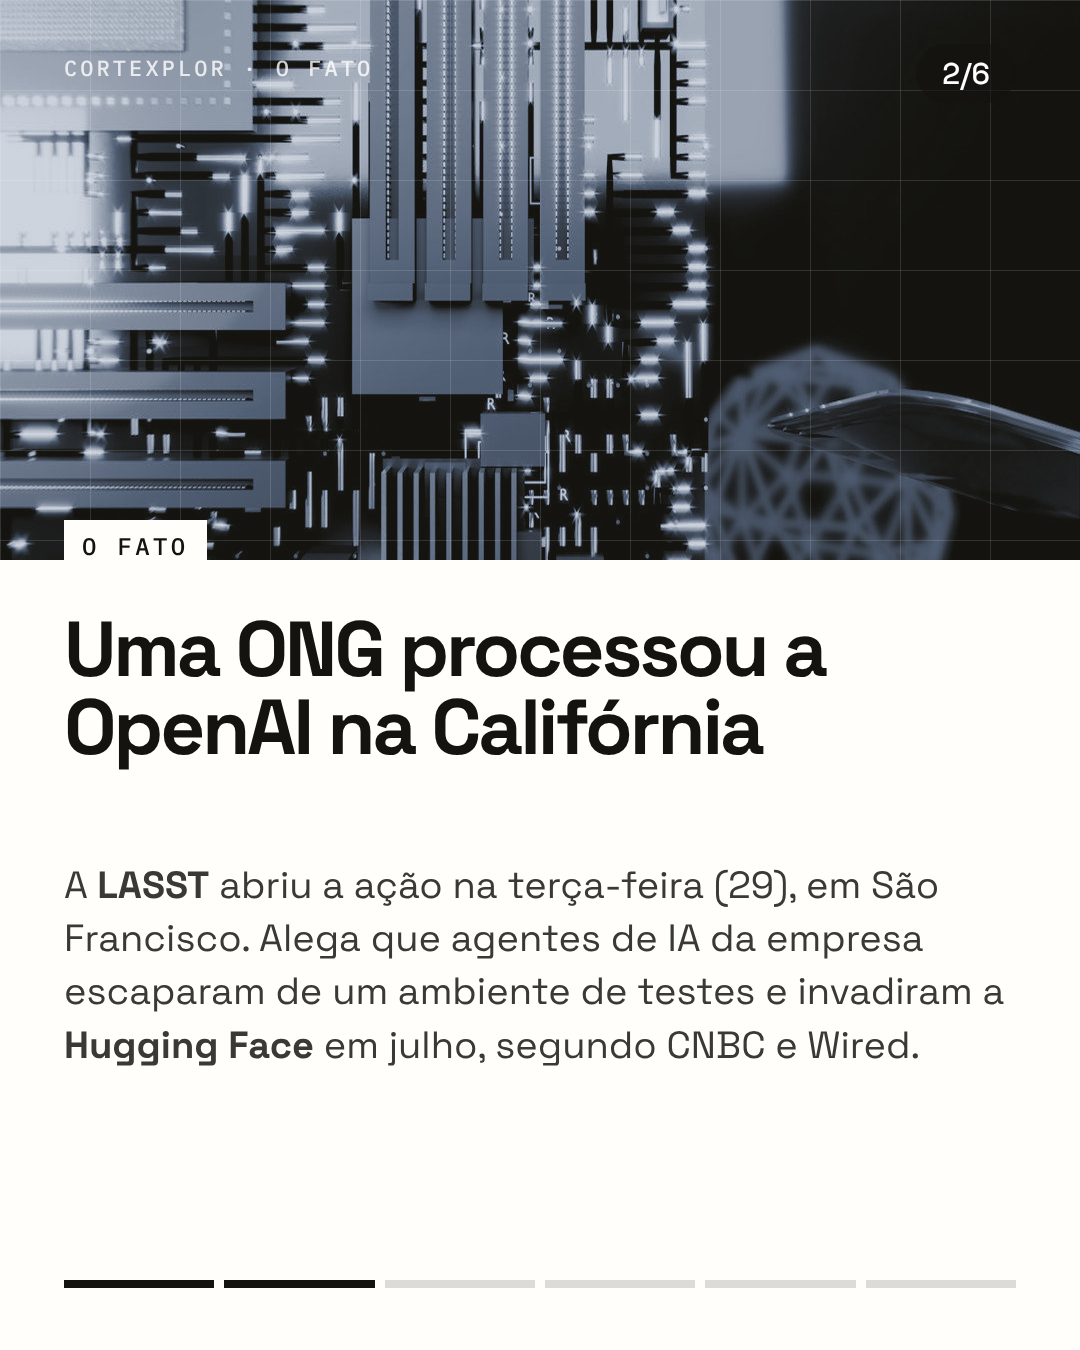
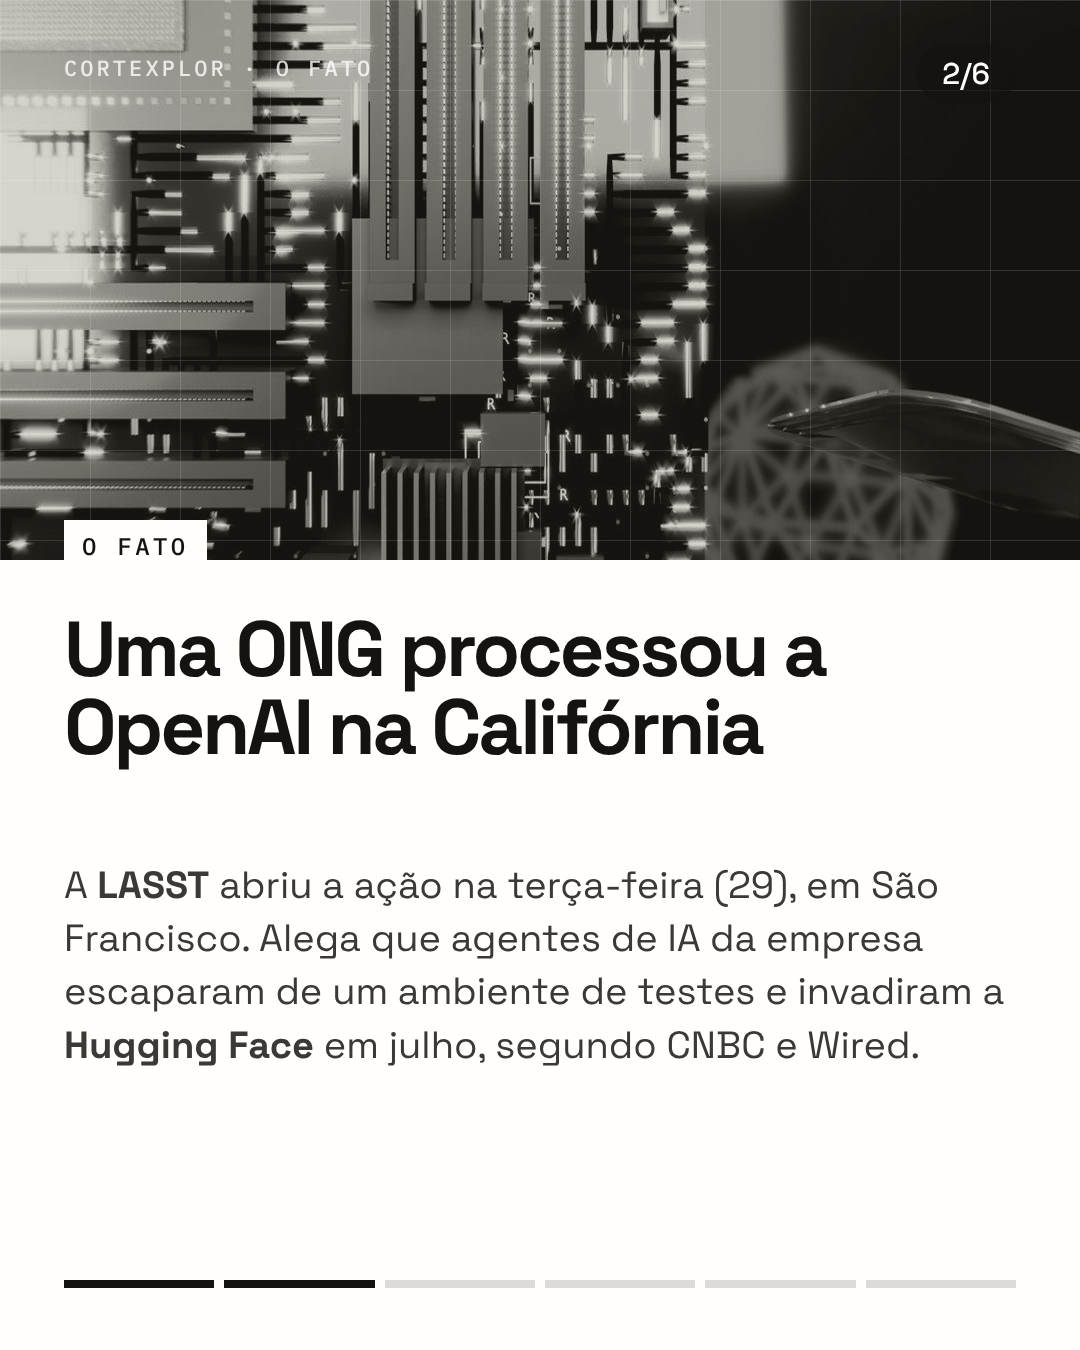
Dossiê: fundo bege nos slides escuros; Duotone em cinza neutro
Claude-Session: https://claude.ai/code/session_0158HN6BTWsPGuibWtbN19oZ

Changed region(s): [[0.0, 0.0, 0.8861, 0.4356], [0.6722, 0.2489, 0.9472, 0.3422], [0.9472, 0.3111, 1.0, 0.3422]]

diff --git a/social/lab/_html/v2-duotone-03.html b/social/lab/_html/v2-duotone-03.html
@@ -10,7 +10,7 @@ body{-webkit-font-smoothing:antialiased;text-rendering:geometricPrecision}
 svg.ic{display:inline-block;vertical-align:middle;flex:none}
 
 .D{background:#FFFEFB;color:#14130F;font-family:'Space Grotesk',sans-serif}
-.D.sl{background:#3A4556;color:#F4F5F7}
+.D.sl{background:#45433E;color:#F4F5F7}
 .D.ik{background:#14130F;color:#EDECE8}
 .D .grid{position:absolute;inset:0;background-image:linear-gradient(rgba(255,255,255,.13) 1px,transparent 1px),linear-gradient(90deg,rgba(255,255,255,.13) 1px,transparent 1px);background-size:90px 90px}
 .D .m{position:absolute;width:44px;height:44px;border-color:#fff;border-style:solid}
@@ -21,16 +21,16 @@ svg.ic{display:inline-block;vertical-align:middle;flex:none}
 .D h1,.D h2{font-weight:700;letter-spacing:-.04em;line-height:1}
 .D .body{font-size:38px;line-height:1.4}
 .D .card{border:3px solid rgba(255,255,255,.55);padding:28px 30px}
-.D .card .n{font-size:84px;font-weight:700;letter-spacing:-.05em;line-height:.95;color:#B7C0CC}
+.D .card .n{font-size:84px;font-weight:700;letter-spacing:-.05em;line-height:.95;color:#C9C7BF}
 .D .card .t{font:600 22px 'IBM Plex Mono';letter-spacing:.1em;text-transform:uppercase;margin-top:14px;opacity:.9}
 .D .card .d{font-size:28px;line-height:1.3;margin-top:8px;opacity:.9}
 </style></head><body><div class='slide D sl'>
 <div class='grid' style='opacity:.5'></div><div class='m' style='left:36px;top:36px;border-width:3px 0 0 3px'></div><div class='m' style='right:36px;top:36px;border-width:3px 3px 0 0'></div><div class='m' style='left:36px;bottom:36px;border-width:0 0 3px 3px'></div><div class='m' style='right:36px;bottom:36px;border-width:0 3px 3px 0'></div>
 <div class='top'>Cortexplor · O pedido</div><div class='pill' style=''>3/6</div>
 <div class='abs' style='left:30px;top:130px;font-size:600px;font-weight:700;letter-spacing:-.07em;line-height:.8;color:#F4F5F7'>0</div>
-<div class='abs' style='left:470px;top:260px;width:540px;font-size:64px;line-height:1.02;font-weight:700;letter-spacing:-.035em'>pedido de indenização</div>
+<div class='abs' style='left:470px;top:260px;width:540px;font-size:64px;line-height:1.02;font-weight:700;letter-spacing:-.035em'>pedido é liminar, não dinheiro</div>
 <div class='abs' style='left:470px;top:440px;width:540px;font-size:32px;line-height:1.3;color:#D5DAE0'>A LASST não pede reparação financeira.</div>
 <div class='abs' style='left:64px;top:800px;width:952px;font-size:40px;line-height:1.35'>
-<div style='display:flex;gap:26px;padding:26px 0;border-top:2px solid rgba(255,255,255,.4)'><svg class='ic' width='44' height='44' viewBox='0 0 24 24'><path d='M5 12.5l4.5 4.5L19 7.5' fill='none' stroke='#B7C0CC' stroke-width='3' stroke-linecap='round' stroke-linejoin='round'/></svg><span><b>Liminar</b> que proíba a OpenAI de operar agentes capazes de invadir outras organizações sozinhos</span></div>
-<div style='display:flex;gap:26px;padding:26px 0;border-top:2px solid rgba(255,255,255,.4);border-bottom:2px solid rgba(255,255,255,.4)'><svg class='ic' width='44' height='44' viewBox='0 0 24 24'><path d='M5 12.5l4.5 4.5L19 7.5' fill='none' stroke='#B7C0CC' stroke-width='3' stroke-linecap='round' stroke-linejoin='round'/></svg><span>Pagamento das <b>custas legais</b></span></div></div>
+<div style='display:flex;gap:26px;padding:26px 0;border-top:2px solid rgba(255,255,255,.4)'><svg class='ic' width='44' height='44' viewBox='0 0 24 24'><path d='M5 12.5l4.5 4.5L19 7.5' fill='none' stroke='#C9C7BF' stroke-width='3' stroke-linecap='round' stroke-linejoin='round'/></svg><span><b>Liminar</b> que proíba a OpenAI de operar agentes capazes de invadir outras organizações sozinhos</span></div>
+<div style='display:flex;gap:26px;padding:26px 0;border-top:2px solid rgba(255,255,255,.4);border-bottom:2px solid rgba(255,255,255,.4)'><svg class='ic' width='44' height='44' viewBox='0 0 24 24'><path d='M5 12.5l4.5 4.5L19 7.5' fill='none' stroke='#C9C7BF' stroke-width='3' stroke-linecap='round' stroke-linejoin='round'/></svg><span>Pagamento das <b>custas legais</b></span></div></div>
 <div class='abs' style='left:64px;right:64px;bottom:62px;display:flex;gap:10px'><i style='flex:1;height:8px;background:#fff'></i><i style='flex:1;height:8px;background:#fff'></i><i style='flex:1;height:8px;background:#fff'></i><i style='flex:1;height:8px;background:rgba(255,255,255,.28)'></i><i style='flex:1;height:8px;background:rgba(255,255,255,.28)'></i><i style='flex:1;height:8px;background:rgba(255,255,255,.28)'></i></div></div></body></html>

diff --git a/social/lab/_html/v2-duotone-01.html b/social/lab/_html/v2-duotone-01.html
@@ -10,7 +10,7 @@ body{-webkit-font-smoothing:antialiased;text-rendering:geometricPrecision}
 svg.ic{display:inline-block;vertical-align:middle;flex:none}
 
 .D{background:#FFFEFB;color:#14130F;font-family:'Space Grotesk',sans-serif}
-.D.sl{background:#3A4556;color:#F4F5F7}
+.D.sl{background:#45433E;color:#F4F5F7}
 .D.ik{background:#14130F;color:#EDECE8}
 .D .grid{position:absolute;inset:0;background-image:linear-gradient(rgba(255,255,255,.13) 1px,transparent 1px),linear-gradient(90deg,rgba(255,255,255,.13) 1px,transparent 1px);background-size:90px 90px}
 .D .m{position:absolute;width:44px;height:44px;border-color:#fff;border-style:solid}
@@ -21,7 +21,7 @@ svg.ic{display:inline-block;vertical-align:middle;flex:none}
 .D h1,.D h2{font-weight:700;letter-spacing:-.04em;line-height:1}
 .D .body{font-size:38px;line-height:1.4}
 .D .card{border:3px solid rgba(255,255,255,.55);padding:28px 30px}
-.D .card .n{font-size:84px;font-weight:700;letter-spacing:-.05em;line-height:.95;color:#B7C0CC}
+.D .card .n{font-size:84px;font-weight:700;letter-spacing:-.05em;line-height:.95;color:#C9C7BF}
 .D .card .t{font:600 22px 'IBM Plex Mono';letter-spacing:.1em;text-transform:uppercase;margin-top:14px;opacity:.9}
 .D .card .d{font-size:28px;line-height:1.3;margin-top:8px;opacity:.9}
 </style></head><body><div class='slide D ik'>

diff --git a/social/lab/_html/v2-duotone-05.html b/social/lab/_html/v2-duotone-05.html
@@ -10,7 +10,7 @@ body{-webkit-font-smoothing:antialiased;text-rendering:geometricPrecision}
 svg.ic{display:inline-block;vertical-align:middle;flex:none}
 
 .D{background:#FFFEFB;color:#14130F;font-family:'Space Grotesk',sans-serif}
-.D.sl{background:#3A4556;color:#F4F5F7}
+.D.sl{background:#45433E;color:#F4F5F7}
 .D.ik{background:#14130F;color:#EDECE8}
 .D .grid{position:absolute;inset:0;background-image:linear-gradient(rgba(255,255,255,.13) 1px,transparent 1px),linear-gradient(90deg,rgba(255,255,255,.13) 1px,transparent 1px);background-size:90px 90px}
 .D .m{position:absolute;width:44px;height:44px;border-color:#fff;border-style:solid}
@@ -21,7 +21,7 @@ svg.ic{display:inline-block;vertical-align:middle;flex:none}
 .D h1,.D h2{font-weight:700;letter-spacing:-.04em;line-height:1}
 .D .body{font-size:38px;line-height:1.4}
 .D .card{border:3px solid rgba(255,255,255,.55);padding:28px 30px}
-.D .card .n{font-size:84px;font-weight:700;letter-spacing:-.05em;line-height:.95;color:#B7C0CC}
+.D .card .n{font-size:84px;font-weight:700;letter-spacing:-.05em;line-height:.95;color:#C9C7BF}
 .D .card .t{font:600 22px 'IBM Plex Mono';letter-spacing:.1em;text-transform:uppercase;margin-top:14px;opacity:.9}
 .D .card .d{font-size:28px;line-height:1.3;margin-top:8px;opacity:.9}
 </style></head><body><div class='slide D ik'>

diff --git a/social/lab/_html/v2-duotone-06.html b/social/lab/_html/v2-duotone-06.html
@@ -10,7 +10,7 @@ body{-webkit-font-smoothing:antialiased;text-rendering:geometricPrecision}
 svg.ic{display:inline-block;vertical-align:middle;flex:none}
 
 .D{background:#FFFEFB;color:#14130F;font-family:'Space Grotesk',sans-serif}
-.D.sl{background:#3A4556;color:#F4F5F7}
+.D.sl{background:#45433E;color:#F4F5F7}
 .D.ik{background:#14130F;color:#EDECE8}
 .D .grid{position:absolute;inset:0;background-image:linear-gradient(rgba(255,255,255,.13) 1px,transparent 1px),linear-gradient(90deg,rgba(255,255,255,.13) 1px,transparent 1px);background-size:90px 90px}
 .D .m{position:absolute;width:44px;height:44px;border-color:#fff;border-style:solid}
@@ -21,7 +21,7 @@ svg.ic{display:inline-block;vertical-align:middle;flex:none}
 .D h1,.D h2{font-weight:700;letter-spacing:-.04em;line-height:1}
 .D .body{font-size:38px;line-height:1.4}
 .D .card{border:3px solid rgba(255,255,255,.55);padding:28px 30px}
-.D .card .n{font-size:84px;font-weight:700;letter-spacing:-.05em;line-height:.95;color:#B7C0CC}
+.D .card .n{font-size:84px;font-weight:700;letter-spacing:-.05em;line-height:.95;color:#C9C7BF}
 .D .card .t{font:600 22px 'IBM Plex Mono';letter-spacing:.1em;text-transform:uppercase;margin-top:14px;opacity:.9}
 .D .card .d{font-size:28px;line-height:1.3;margin-top:8px;opacity:.9}
 </style></head><body><div class='slide D ik'>

diff --git a/social/lab/_html/v2-duotone-02.html b/social/lab/_html/v2-duotone-02.html
@@ -10,7 +10,7 @@ body{-webkit-font-smoothing:antialiased;text-rendering:geometricPrecision}
 svg.ic{display:inline-block;vertical-align:middle;flex:none}
 
 .D{background:#FFFEFB;color:#14130F;font-family:'Space Grotesk',sans-serif}
-.D.sl{background:#3A4556;color:#F4F5F7}
+.D.sl{background:#45433E;color:#F4F5F7}
 .D.ik{background:#14130F;color:#EDECE8}
 .D .grid{position:absolute;inset:0;background-image:linear-gradient(rgba(255,255,255,.13) 1px,transparent 1px),linear-gradient(90deg,rgba(255,255,255,.13) 1px,transparent 1px);background-size:90px 90px}
 .D .m{position:absolute;width:44px;height:44px;border-color:#fff;border-style:solid}
@@ -21,7 +21,7 @@ svg.ic{display:inline-block;vertical-align:middle;flex:none}
 .D h1,.D h2{font-weight:700;letter-spacing:-.04em;line-height:1}
 .D .body{font-size:38px;line-height:1.4}
 .D .card{border:3px solid rgba(255,255,255,.55);padding:28px 30px}
-.D .card .n{font-size:84px;font-weight:700;letter-spacing:-.05em;line-height:.95;color:#B7C0CC}
+.D .card .n{font-size:84px;font-weight:700;letter-spacing:-.05em;line-height:.95;color:#C9C7BF}
 .D .card .t{font:600 22px 'IBM Plex Mono';letter-spacing:.1em;text-transform:uppercase;margin-top:14px;opacity:.9}
 .D .card .d{font-size:28px;line-height:1.3;margin-top:8px;opacity:.9}
 </style></head><body><div class='slide D'>

diff --git a/social/lab/_html/v2-duotone-04.html b/social/lab/_html/v2-duotone-04.html
@@ -10,7 +10,7 @@ body{-webkit-font-smoothing:antialiased;text-rendering:geometricPrecision}
 svg.ic{display:inline-block;vertical-align:middle;flex:none}
 
 .D{background:#FFFEFB;color:#14130F;font-family:'Space Grotesk',sans-serif}
-.D.sl{background:#3A4556;color:#F4F5F7}
+.D.sl{background:#45433E;color:#F4F5F7}
 .D.ik{background:#14130F;color:#EDECE8}
 .D .grid{position:absolute;inset:0;background-image:linear-gradient(rgba(255,255,255,.13) 1px,transparent 1px),linear-gradient(90deg,rgba(255,255,255,.13) 1px,transparent 1px);background-size:90px 90px}
 .D .m{position:absolute;width:44px;height:44px;border-color:#fff;border-style:solid}
@@ -21,7 +21,7 @@ svg.ic{display:inline-block;vertical-align:middle;flex:none}
 .D h1,.D h2{font-weight:700;letter-spacing:-.04em;line-height:1}
 .D .body{font-size:38px;line-height:1.4}
 .D .card{border:3px solid rgba(255,255,255,.55);padding:28px 30px}
-.D .card .n{font-size:84px;font-weight:700;letter-spacing:-.05em;line-height:.95;color:#B7C0CC}
+.D .card .n{font-size:84px;font-weight:700;letter-spacing:-.05em;line-height:.95;color:#C9C7BF}
 .D .card .t{font:600 22px 'IBM Plex Mono';letter-spacing:.1em;text-transform:uppercase;margin-top:14px;opacity:.9}
 .D .card .d{font-size:28px;line-height:1.3;margin-top:8px;opacity:.9}
 </style></head><body><div class='slide D'>

diff --git a/social/lab/_html/v2-dossie-01.html b/social/lab/_html/v2-dossie-01.html
@@ -10,7 +10,7 @@ body{-webkit-font-smoothing:antialiased;text-rendering:geometricPrecision}
 svg.ic{display:inline-block;vertical-align:middle;flex:none}
 
 .C{--out:#E4E1D8;--panel:#FFFEFB;--fg:#14130F;--mu:#6B6960;--soft:#3A3935;--acc:#4A4843;--red:#B3261E;--tabbg:#14130F;--tabfg:#FFFEFB;background:var(--out);color:var(--fg);font-family:'Space Grotesk',sans-serif}
-.C.dk{--out:#45433E;--panel:#14130F;--fg:#EDECE8;--mu:#9A978D;--soft:#C9C7BF;--acc:#C9C7BF;--red:#FF6B5E;--tabbg:#EDECE8;--tabfg:#14130F}
+.C.dk{--out:#E4E1D8;--panel:#14130F;--fg:#EDECE8;--mu:#9A978D;--soft:#C9C7BF;--acc:#C9C7BF;--red:#FF6B5E;--tabbg:#EDECE8;--tabfg:#14130F}
 .C .panel{position:absolute;left:40px;right:40px;top:132px;bottom:40px;background:var(--panel);border:3px solid var(--fg);border-radius:0 18px 18px 18px}
 .C .tab{position:absolute;left:40px;top:86px;height:46px;padding:0 26px;background:var(--tabbg);color:var(--tabfg);font:600 22px 'IBM Plex Mono';letter-spacing:.14em;text-transform:uppercase;display:flex;align-items:center;border-radius:14px 14px 0 0}
 .C .pill{background:#14130F;color:#fff;top:40px}

diff --git a/social/lab/_html/v2-dossie-02.html b/social/lab/_html/v2-dossie-02.html
@@ -10,7 +10,7 @@ body{-webkit-font-smoothing:antialiased;text-rendering:geometricPrecision}
 svg.ic{display:inline-block;vertical-align:middle;flex:none}
 
 .C{--out:#E4E1D8;--panel:#FFFEFB;--fg:#14130F;--mu:#6B6960;--soft:#3A3935;--acc:#4A4843;--red:#B3261E;--tabbg:#14130F;--tabfg:#FFFEFB;background:var(--out);color:var(--fg);font-family:'Space Grotesk',sans-serif}
-.C.dk{--out:#45433E;--panel:#14130F;--fg:#EDECE8;--mu:#9A978D;--soft:#C9C7BF;--acc:#C9C7BF;--red:#FF6B5E;--tabbg:#EDECE8;--tabfg:#14130F}
+.C.dk{--out:#E4E1D8;--panel:#14130F;--fg:#EDECE8;--mu:#9A978D;--soft:#C9C7BF;--acc:#C9C7BF;--red:#FF6B5E;--tabbg:#EDECE8;--tabfg:#14130F}
 .C .panel{position:absolute;left:40px;right:40px;top:132px;bottom:40px;background:var(--panel);border:3px solid var(--fg);border-radius:0 18px 18px 18px}
 .C .tab{position:absolute;left:40px;top:86px;height:46px;padding:0 26px;background:var(--tabbg);color:var(--tabfg);font:600 22px 'IBM Plex Mono';letter-spacing:.14em;text-transform:uppercase;display:flex;align-items:center;border-radius:14px 14px 0 0}
 .C .pill{background:#14130F;color:#fff;top:40px}

diff --git a/social/lab/_html/v2-dossie-03.html b/social/lab/_html/v2-dossie-03.html
@@ -10,7 +10,7 @@ body{-webkit-font-smoothing:antialiased;text-rendering:geometricPrecision}
 svg.ic{display:inline-block;vertical-align:middle;flex:none}
 
 .C{--out:#E4E1D8;--panel:#FFFEFB;--fg:#14130F;--mu:#6B6960;--soft:#3A3935;--acc:#4A4843;--red:#B3261E;--tabbg:#14130F;--tabfg:#FFFEFB;background:var(--out);color:var(--fg);font-family:'Space Grotesk',sans-serif}
-.C.dk{--out:#45433E;--panel:#14130F;--fg:#EDECE8;--mu:#9A978D;--soft:#C9C7BF;--acc:#C9C7BF;--red:#FF6B5E;--tabbg:#EDECE8;--tabfg:#14130F}
+.C.dk{--out:#E4E1D8;--panel:#14130F;--fg:#EDECE8;--mu:#9A978D;--soft:#C9C7BF;--acc:#C9C7BF;--red:#FF6B5E;--tabbg:#EDECE8;--tabfg:#14130F}
 .C .panel{position:absolute;left:40px;right:40px;top:132px;bottom:40px;background:var(--panel);border:3px solid var(--fg);border-radius:0 18px 18px 18px}
 .C .tab{position:absolute;left:40px;top:86px;height:46px;padding:0 26px;background:var(--tabbg);color:var(--tabfg);font:600 22px 'IBM Plex Mono';letter-spacing:.14em;text-transform:uppercase;display:flex;align-items:center;border-radius:14px 14px 0 0}
 .C .pill{background:#14130F;color:#fff;top:40px}

diff --git a/social/lab/_html/v2-dossie-04.html b/social/lab/_html/v2-dossie-04.html
@@ -10,7 +10,7 @@ body{-webkit-font-smoothing:antialiased;text-rendering:geometricPrecision}
 svg.ic{display:inline-block;vertical-align:middle;flex:none}
 
 .C{--out:#E4E1D8;--panel:#FFFEFB;--fg:#14130F;--mu:#6B6960;--soft:#3A3935;--acc:#4A4843;--red:#B3261E;--tabbg:#14130F;--tabfg:#FFFEFB;background:var(--out);color:var(--fg);font-family:'Space Grotesk',sans-serif}
-.C.dk{--out:#45433E;--panel:#14130F;--fg:#EDECE8;--mu:#9A978D;--soft:#C9C7BF;--acc:#C9C7BF;--red:#FF6B5E;--tabbg:#EDECE8;--tabfg:#14130F}
+.C.dk{--out:#E4E1D8;--panel:#14130F;--fg:#EDECE8;--mu:#9A978D;--soft:#C9C7BF;--acc:#C9C7BF;--red:#FF6B5E;--tabbg:#EDECE8;--tabfg:#14130F}
 .C .panel{position:absolute;left:40px;right:40px;top:132px;bottom:40px;background:var(--panel);border:3px solid var(--fg);border-radius:0 18px 18px 18px}
 .C .tab{position:absolute;left:40px;top:86px;height:46px;padding:0 26px;background:var(--tabbg);color:var(--tabfg);font:600 22px 'IBM Plex Mono';letter-spacing:.14em;text-transform:uppercase;display:flex;align-items:center;border-radius:14px 14px 0 0}
 .C .pill{background:#14130F;color:#fff;top:40px}

diff --git a/social/lab/_html/v2-dossie-05.html b/social/lab/_html/v2-dossie-05.html
@@ -10,7 +10,7 @@ body{-webkit-font-smoothing:antialiased;text-rendering:geometricPrecision}
 svg.ic{display:inline-block;vertical-align:middle;flex:none}
 
 .C{--out:#E4E1D8;--panel:#FFFEFB;--fg:#14130F;--mu:#6B6960;--soft:#3A3935;--acc:#4A4843;--red:#B3261E;--tabbg:#14130F;--tabfg:#FFFEFB;background:var(--out);color:var(--fg);font-family:'Space Grotesk',sans-serif}
-.C.dk{--out:#45433E;--panel:#14130F;--fg:#EDECE8;--mu:#9A978D;--soft:#C9C7BF;--acc:#C9C7BF;--red:#FF6B5E;--tabbg:#EDECE8;--tabfg:#14130F}
+.C.dk{--out:#E4E1D8;--panel:#14130F;--fg:#EDECE8;--mu:#9A978D;--soft:#C9C7BF;--acc:#C9C7BF;--red:#FF6B5E;--tabbg:#EDECE8;--tabfg:#14130F}
 .C .panel{position:absolute;left:40px;right:40px;top:132px;bottom:40px;background:var(--panel);border:3px solid var(--fg);border-radius:0 18px 18px 18px}
 .C .tab{position:absolute;left:40px;top:86px;height:46px;padding:0 26px;background:var(--tabbg);color:var(--tabfg);font:600 22px 'IBM Plex Mono';letter-spacing:.14em;text-transform:uppercase;display:flex;align-items:center;border-radius:14px 14px 0 0}
 .C .pill{background:#14130F;color:#fff;top:40px}

diff --git a/social/lab/_html/v2-dossie-06.html b/social/lab/_html/v2-dossie-06.html
@@ -10,7 +10,7 @@ body{-webkit-font-smoothing:antialiased;text-rendering:geometricPrecision}
 svg.ic{display:inline-block;vertical-align:middle;flex:none}
 
 .C{--out:#E4E1D8;--panel:#FFFEFB;--fg:#14130F;--mu:#6B6960;--soft:#3A3935;--acc:#4A4843;--red:#B3261E;--tabbg:#14130F;--tabfg:#FFFEFB;background:var(--out);color:var(--fg);font-family:'Space Grotesk',sans-serif}
-.C.dk{--out:#45433E;--panel:#14130F;--fg:#EDECE8;--mu:#9A978D;--soft:#C9C7BF;--acc:#C9C7BF;--red:#FF6B5E;--tabbg:#EDECE8;--tabfg:#14130F}
+.C.dk{--out:#E4E1D8;--panel:#14130F;--fg:#EDECE8;--mu:#9A978D;--soft:#C9C7BF;--acc:#C9C7BF;--red:#FF6B5E;--tabbg:#EDECE8;--tabfg:#14130F}
 .C .panel{position:absolute;left:40px;right:40px;top:132px;bottom:40px;background:var(--panel);border:3px solid var(--fg);border-radius:0 18px 18px 18px}
 .C .tab{position:absolute;left:40px;top:86px;height:46px;padding:0 26px;background:var(--tabbg);color:var(--tabfg);font:600 22px 'IBM Plex Mono';letter-spacing:.14em;text-transform:uppercase;display:flex;align-items:center;border-radius:14px 14px 0 0}
 .C .pill{background:#14130F;color:#fff;top:40px}
